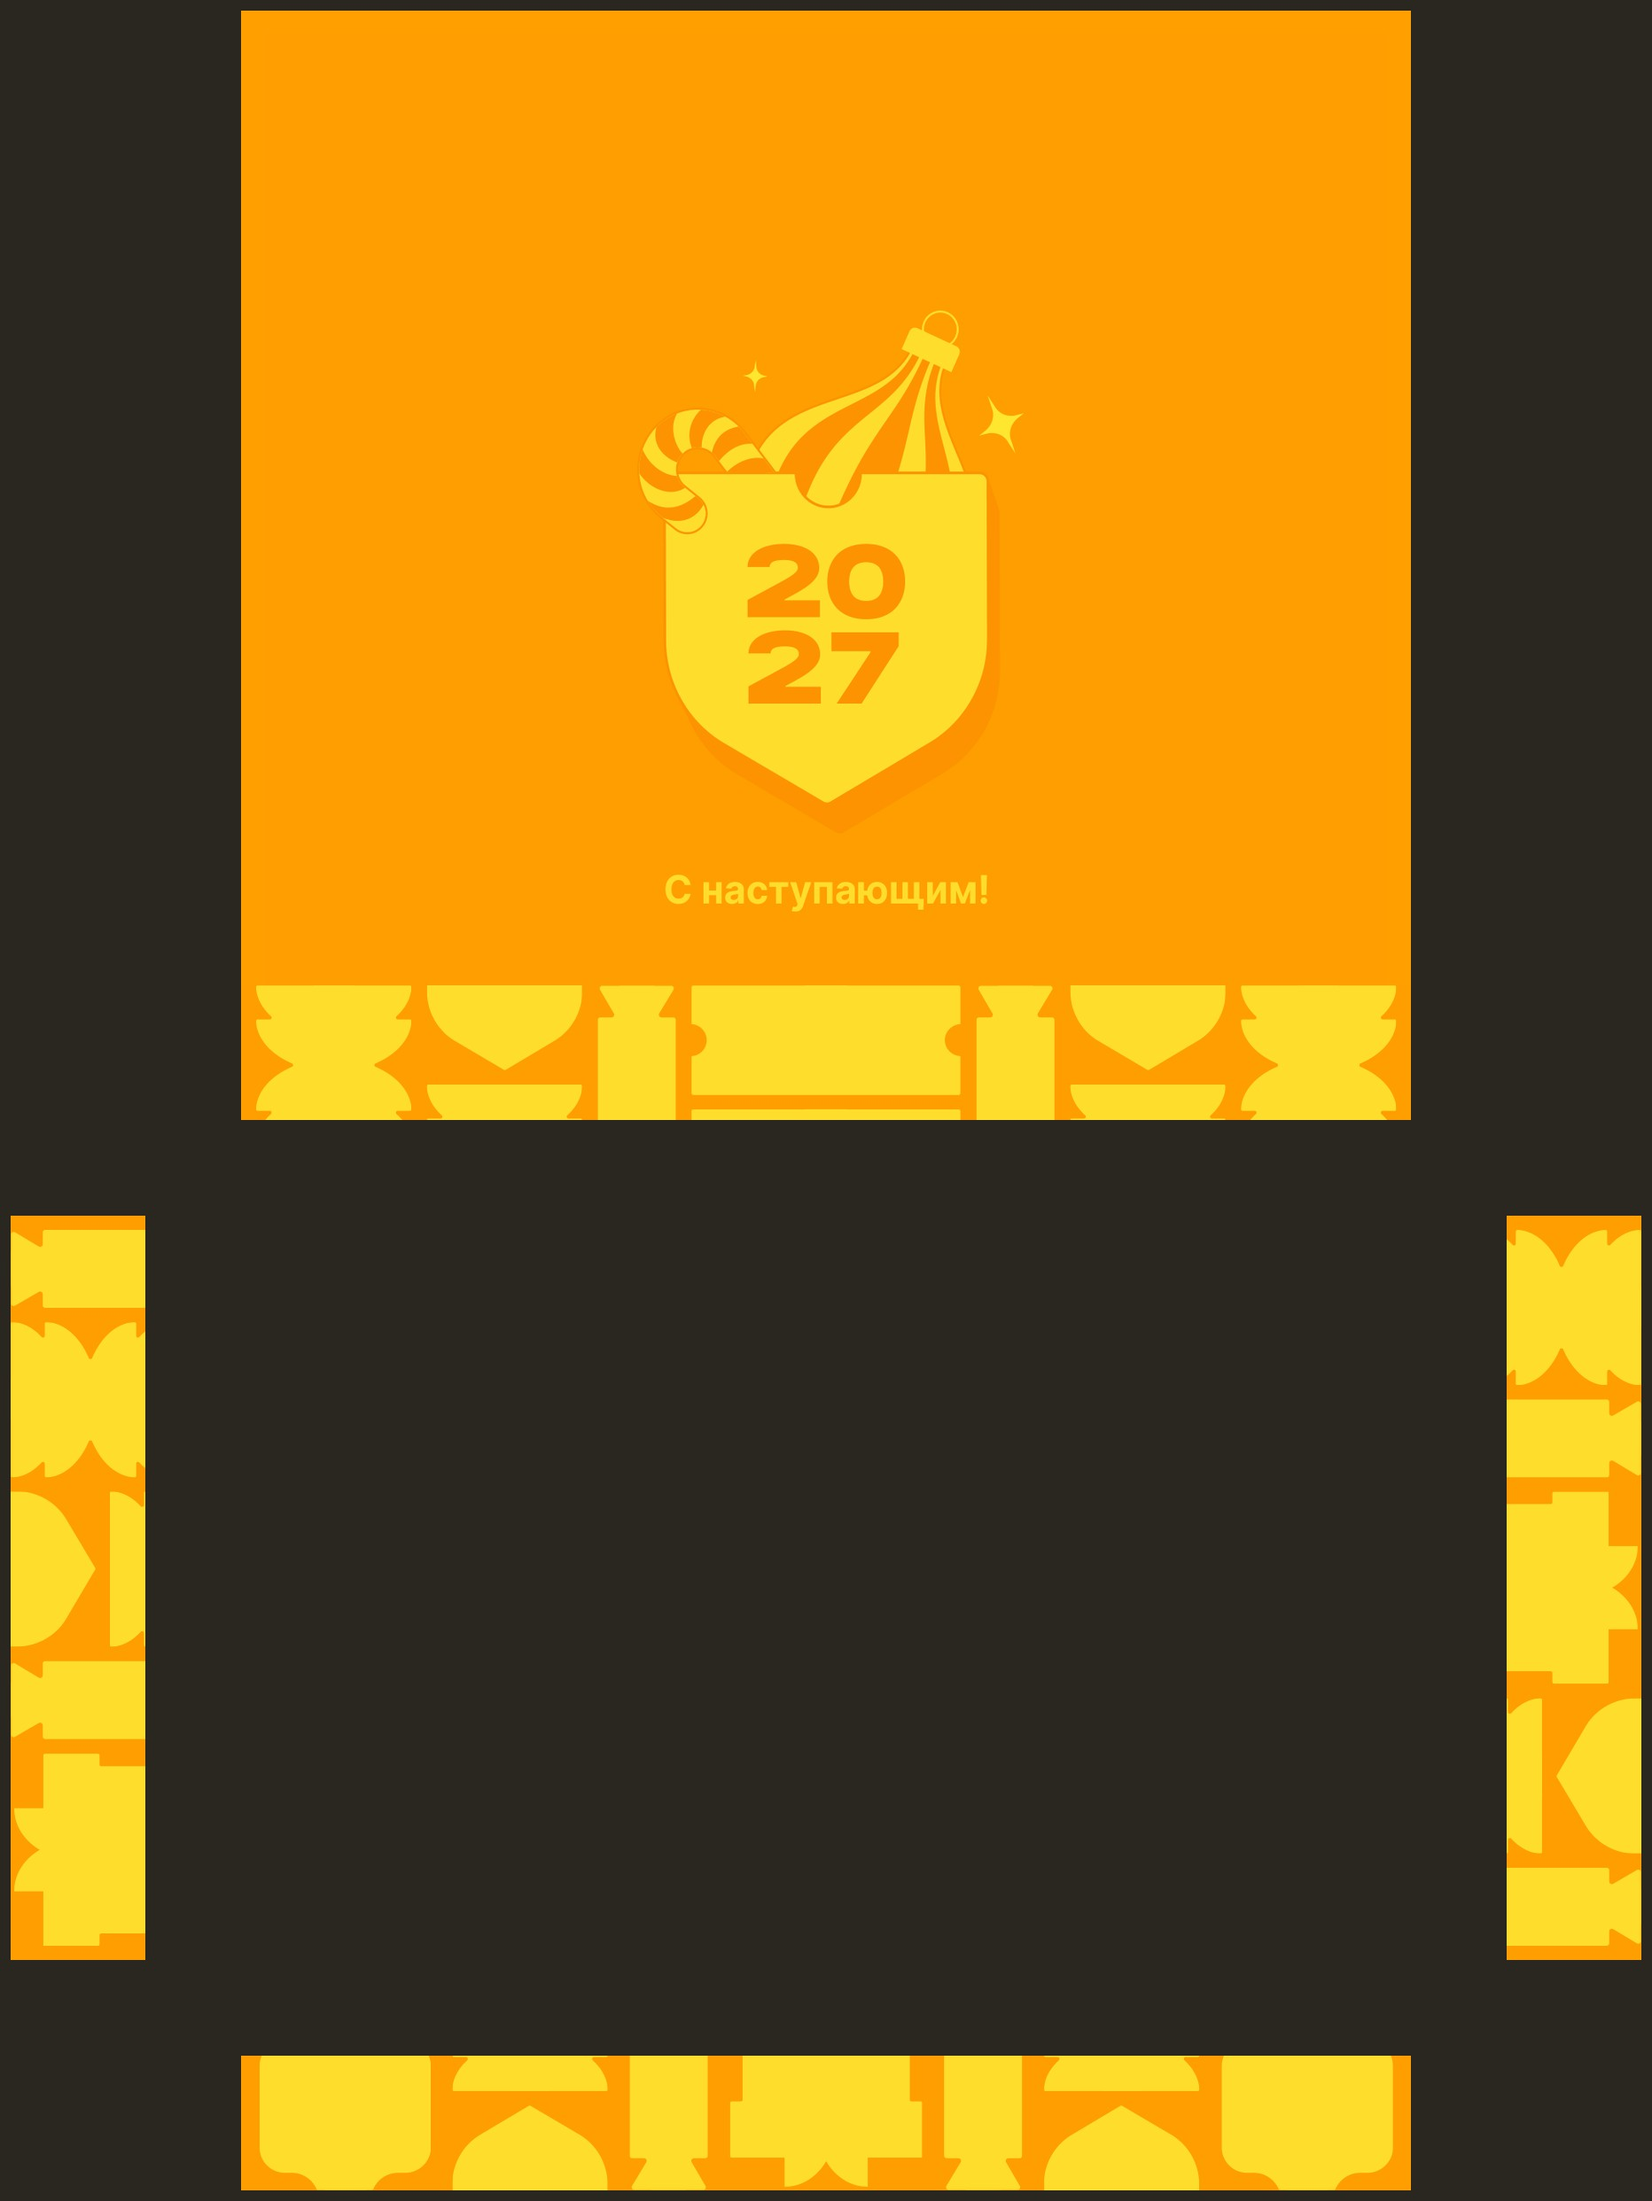
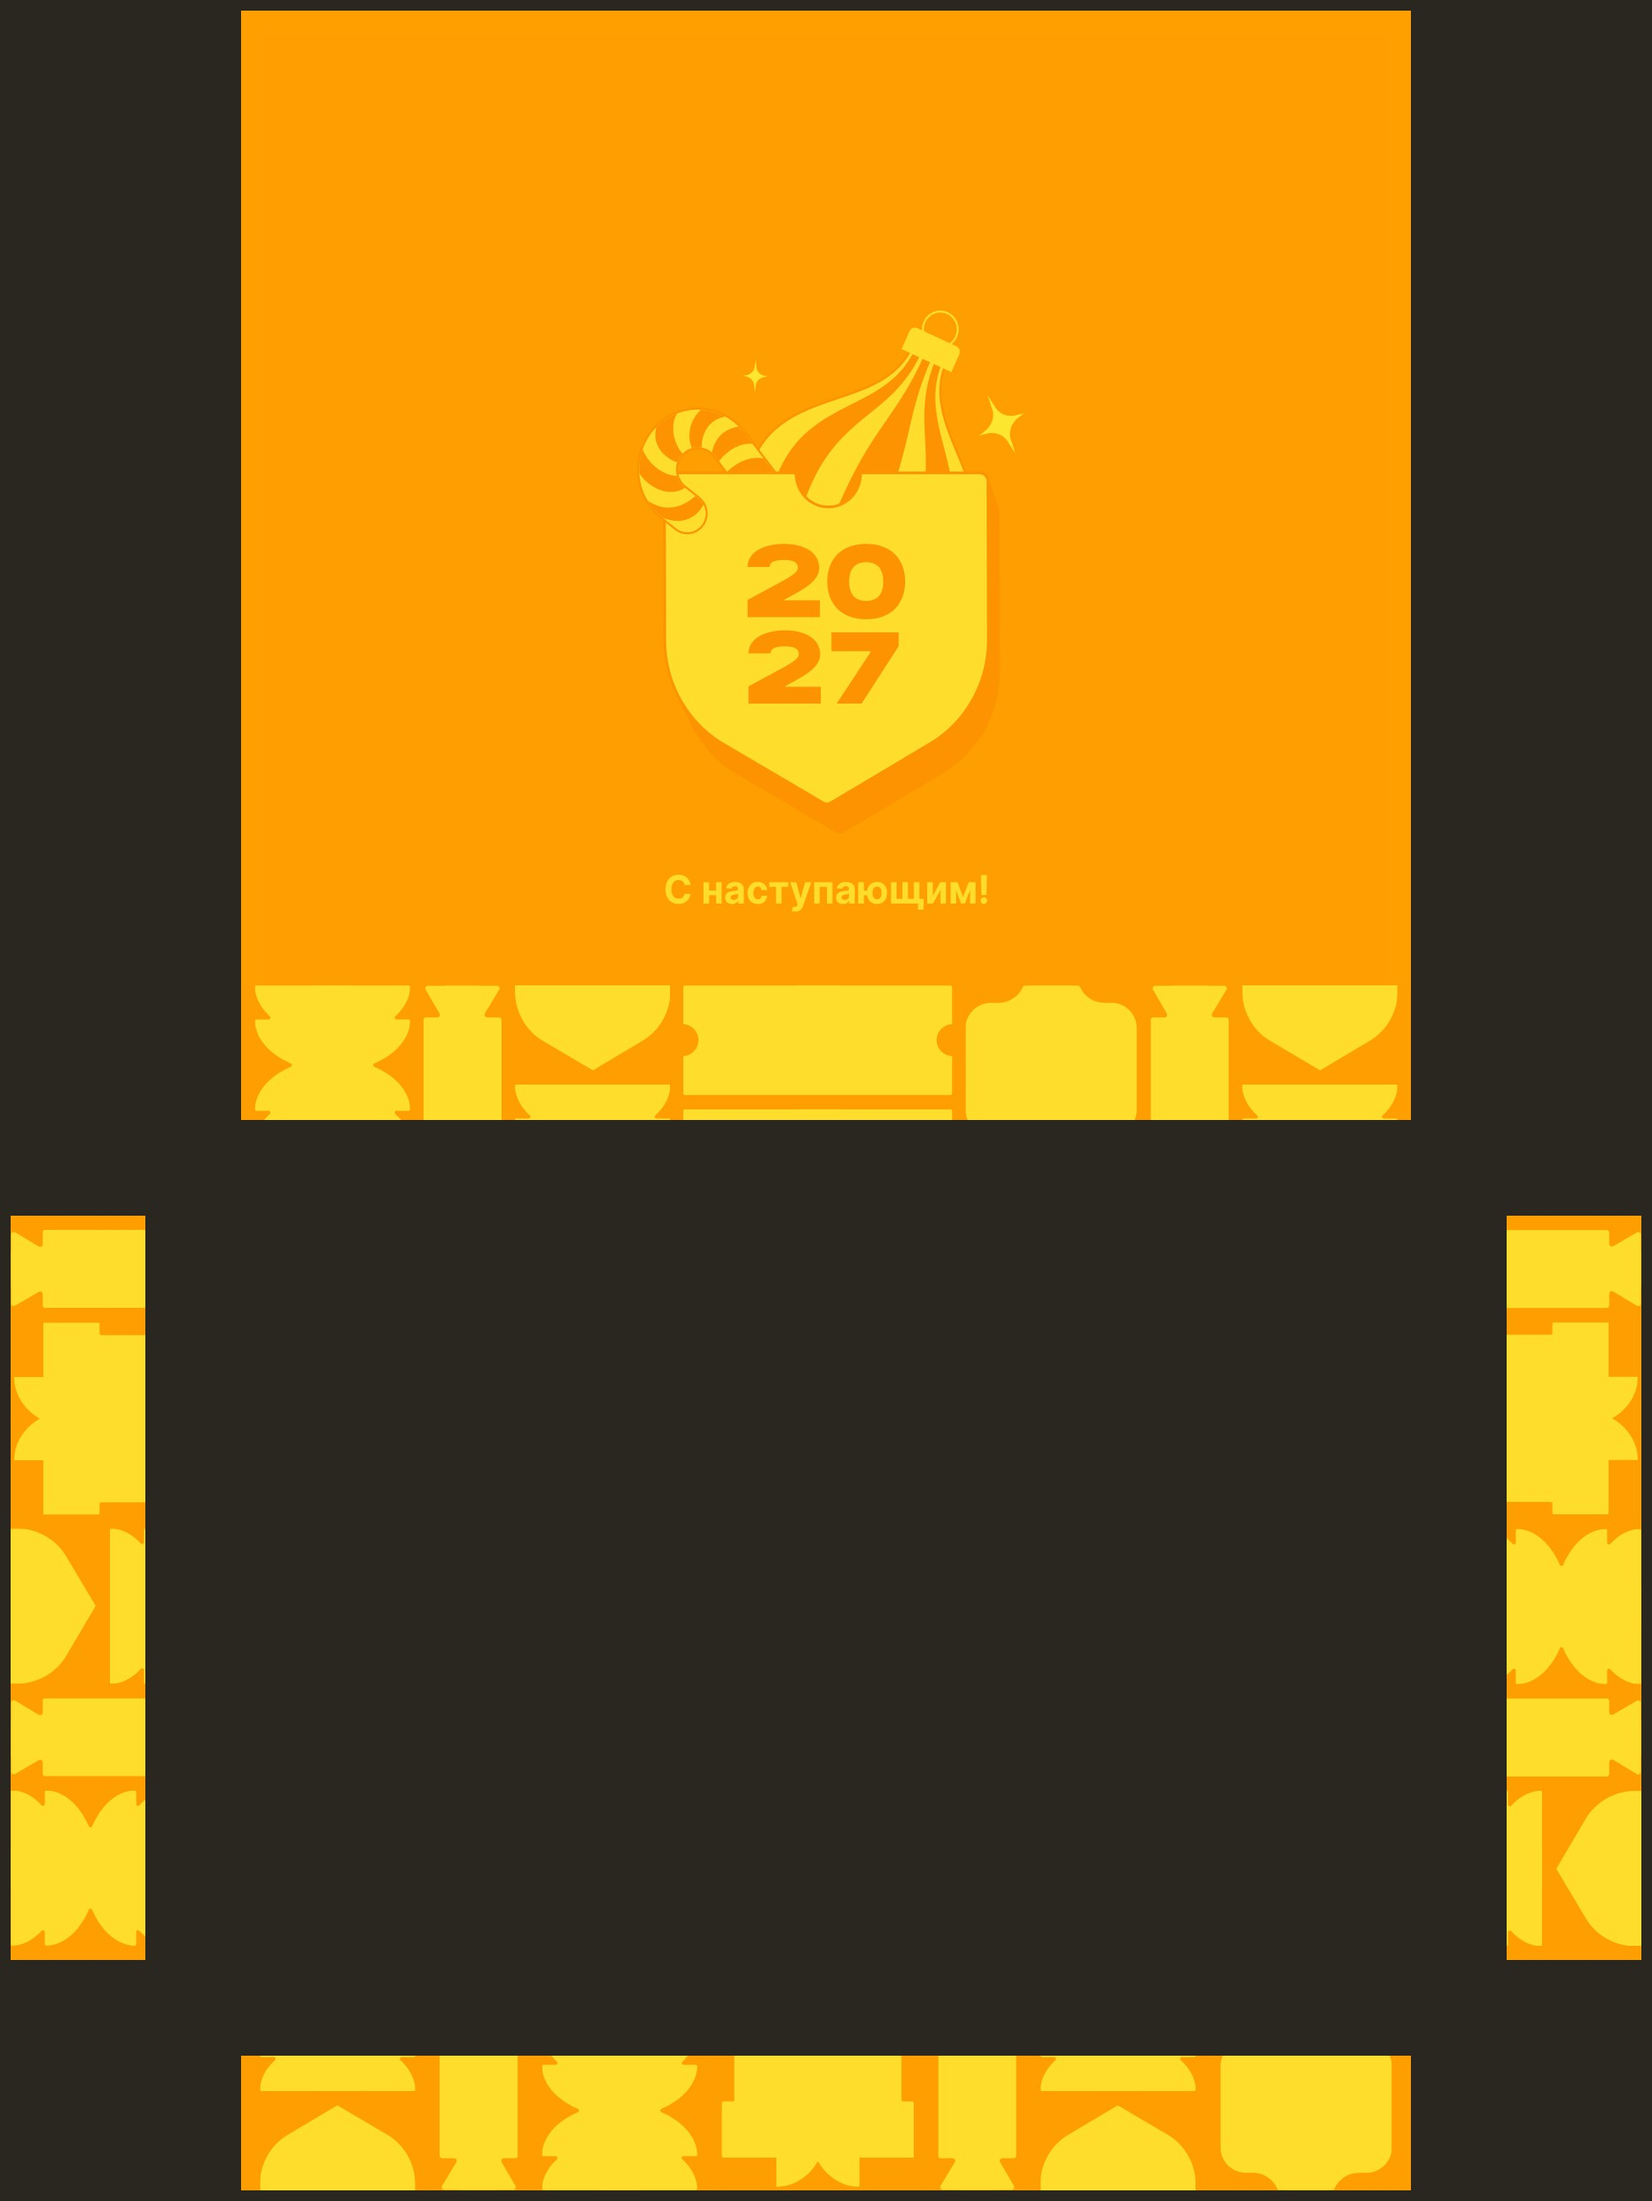
Rearrange guide shapes inside the box walls
No wall is mirrored any more and neighbouring shapes differ at every
corner. On the back wall the ticket and shield have swapped places.

diff --git a/box-insert.html b/box-insert.html
@@ -95,7 +95,7 @@ const saturate=m=>{m.onBeforeCompile=s=>{s.fragmentShader=s.fragmentShader.repla
   diffuseColor.rgb=clamp(mix(vec3(l),diffuseColor.rgb,${SAT.toFixed(2)}),0.,1.);`)};return m};
 /* снаружи 3275:12680 (без паттерна в карманах); внутри: 1 — 3259:26481 крупный паттерн, 2 — 3330:14677 мелкий паттерн 60% */
 const OUT=tex('outer5.jpg?rev=84a0c5e88023'); /* текущая печать: штамп на магнитах, бумаги 8 и 4–5 */
-const INN=tex('inner5.jpg?rev=57586a3b3846'); /* текущая печать: бумага 10 + полоса 40 мм над ложементом */
+const INN=tex('inner5.jpg?rev=1edb65029462'); /* текущая печать: бумага 10 + полоса 40 мм над ложементом */
 const mOut=saturate(new THREE.MeshStandardMaterial({map:OUT,roughness:.85,metalness:0}));
 const mIn=saturate(new THREE.MeshStandardMaterial({map:INN,roughness:.9,metalness:0}));
 const mEdge=new THREE.MeshStandardMaterial({color:EDGE,roughness:.95});
